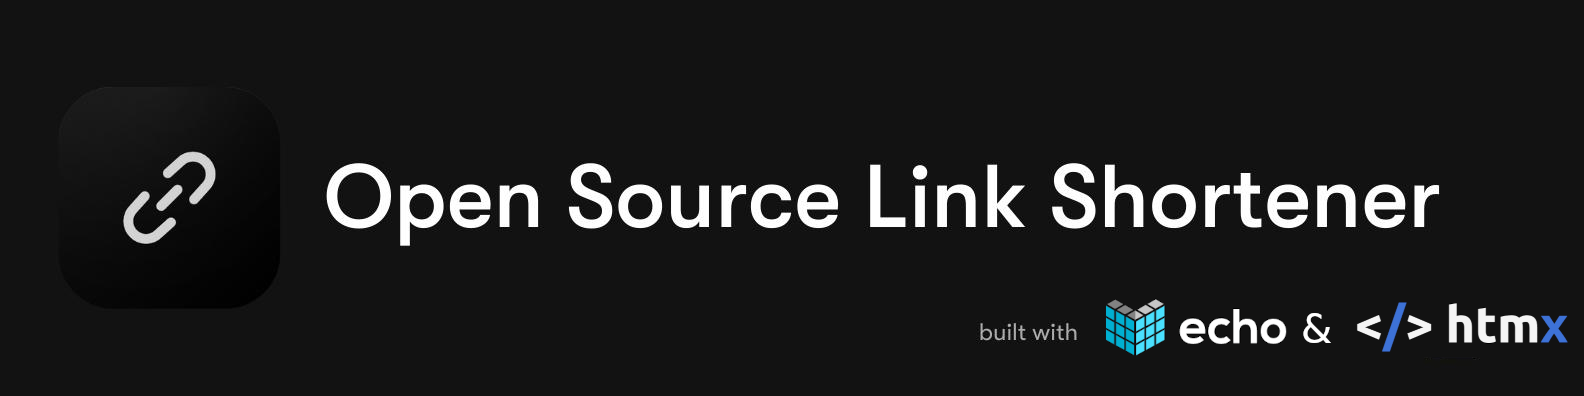
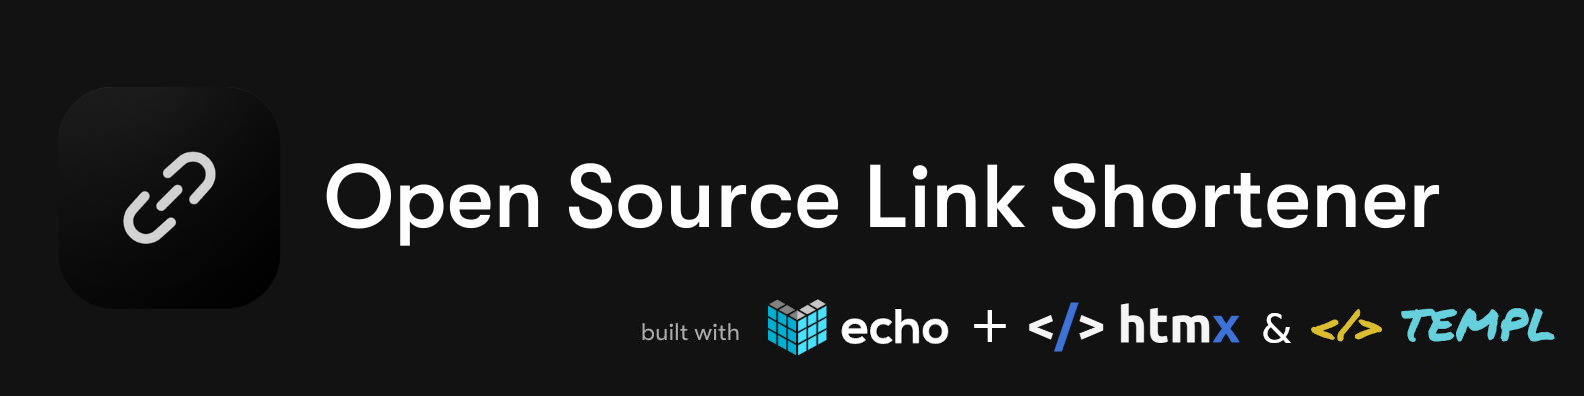
⚒ added a complete REDME file

Changed region(s): [[0.4021, 0.7576, 0.9899, 0.9091]]

diff --git a/README.md b/README.md
@@ -1,15 +1,145 @@
-<h1 style="text-align: center;">Shortify</h1>
+<div align="center">
+  
+<h1 align="center">Shortify</h1>
 
 <img src="doc/banner.png" width="100%">
 
-<br />
+<hr />
 
-A Full Stack application using Golang's Echo framework & </>htmx.
+<p style="margin-bottom: 8px;">
 
-<div style="text-align: center;">
-![](https://img.shields.io/github/license/emarifer/url-shortener-echo-templ-htmx.svg)
+A Full Stack Url Shortener App using Golang's Echo framework + </>HTMX & Templ.
+
+</p>
+  
+![GitHub License](https://img.shields.io/github/license/emarifer/url-shortener-echo-templ-htmx) ![Static Badge](https://img.shields.io/badge/Go-%3E=1.18-blue)
+
 </div>
+
+<hr />
 
 ## 🤔 What Stack have we used?
 
-In construction... ⚒
+In the implementation of this application we have used the following technologies:
+
+- ✅ **Bootstrapping**: [Go programming language (v1.21)](https://go.dev/)
+- ✅ **Backend Framework**: [Echo v4.11.4 ](https://echo.labstack.com/)
+- ✅ **Auth & Session middleware**: [Echo Contrib Session](https://github.com/labstack/echo-contrib/)
+- ✅ **Dependency Injection**: [Fx - dependency injection system for Go](https://uber-go.github.io/fx/)
+- ✅ **Database**: [PostgreSQL](https://www.postgresql.org/)
+- ✅ **Styling**: [TailwindCSS + DaisyUI](https://tailwindcss.com)
+- ✅ **Frontend interactivity**: [</>Htmx + _Hyperscript](https://htmx.org/)
+- ✅ **Templating Language**: [</>Templ - build HTML with Go](https://templ.guide/)
+- ✅ **Popup Boxes (Alerts)**: [Sweetalert2 - responsive & customizable replacement for JavaScript's popup boxes](https://sweetalert2.github.io/)
+  
+<br />
+
+>[!NOTE]
+>***The use of [</>htmx](https://htmx.org/) allows behavior similar to that of a SPA, without page reloads when switching from one route to another or when making requests (via AJAX) to the backend. Likewise, the [_hyperscript](https://hyperscript.org/) library allows you to add some dynamic features to the frontend in a very easy way.***
+  
+
+>[!IMPORTANT]
+>***In this application, instead of using the [html/template](https://pkg.go.dev/html/template) package (native Golang templates), we use the [a-h/templ](https://github.com/a-h/templ) library. This amazing library implements a templating language (very similar to JSX) that compiles to Go code. Templ will allow us to write code almost identical to Go (with expressions, control flow, if/else, for loops, etc.) and have autocompletion thanks to strong typing. This means that errors appear at compile time and any calls to these templates (which are compiled as Go functions) from the handlers side will always require the correct data, minimizing errors and thus increasing the security and speed of our coding.***
+
+---
+
+## 🖼 Screenshots:
+
+<div align="center">
+
+###### Home & Login Pages with success alert:
+
+<img src="doc/screenshot-01.png" width="35%" align="top">&nbsp;&nbsp;&nbsp;&nbsp;<img src="doc/screenshot-02.png" width="35%">
+
+###### Short link creator Page and Dashboard Page with alerts:
+
+<img src="doc/screenshot-03.png" width="35%" align="top">&nbsp;&nbsp;&nbsp;&nbsp;<img src="doc/screenshot-04.png" width="35%">
+
+###### Dashboard Page with alert and Short Link Update Modal:
+
+<img src="doc/screenshot-05.png" width="35%" align="top">&nbsp;&nbsp;&nbsp;&nbsp;<img src="doc/screenshot-06.png" width="35%">
+
+###### Centralized HTTP error handling:
+
+<img src="doc/screenshot-07.png" width="40%" align="top">
+
+</div>
+
+---
+
+## 📦 Project structure
+
+```
+- assets
+  |- css
+  |- img
+- database
+- encryption
+- internal
+  |- api
+    |- dto
+  |- entity
+  |- model
+  |- repository
+  |- service
+- postgresdb_init
+- settings
+- timezone_conversion
+- views
+  |- auth_views
+  |- components
+  |- errors_pages
+  |- layout
+  |- links_views
+```
+
+>[!NOTE]
+>***In this application, we have tried to apply a [Clean Architecture](https://blog.cleancoder.com/uncle-bob/2012/08/13/the-clean-architecture.html) pattern. The architecture follows a typical "onion model" where each layer doesn't know about the layer above it, and each layer is responsible for a specific thing. Although the application is extremely simple, we use this pattern to illustrate its use in more complex applications. Layering an application in this way can simplify code structure, since the responsibility of each type is clear. To ensure that each part of the application is initialized with its dependencies, each struct defines a constructor (the New function in this example). Related to the latter, we have used a dependency injector ([Fx](https://uber-go.github.io/fx/) from uber-go), which helps to remove the global state in the application and add new components and have them instantly accessible across the application.***
+
+>[!TIP]
+>***When applying this approach in a real-life application, as with most things, taking the layering approach to an extreme level can have a negative effect. Ask yourself if what you are doing actually helps make the code understandable or simply spreads the application logic across many files and makes the overall structure difficult to see.***
+
+
+## 👨🚀 Getting Started
+
+Besides the obvious prerequisite of having Go! on your machine, you must have Air installed for hot reloading when editing code.
+
+Since we use the PostgreSQL database from a Docker container, it is necessary to have the latter also installed and execute this command in the project folder:
+
+```
+$ docker compose up -d
+```
+
+These other commands will also be useful to manage the database from its container:
+
+```
+$ docker container start shortify-db # start container
+$ docker container stop shortify-db # stop container
+$ docker exec -it shortify-db psql -U admin -W shortify_db # (pass: admin) access the database
+```
+
+Start the app in development mode:
+
+```
+$ air # Ctrl + C to stop the application
+```
+
+Build for production:
+
+```
+$ go build -ldflags="-s -w" -o ./bin/main . # ./bin/main to run the application / Ctrl + C to stop the application
+```
+
+>[!TIP]
+>***In order to have autocompletion and syntax highlighting in VS Code for the Teml templating language, you will have to install the [templ-vscode](https://marketplace.visualstudio.com/items?itemName=a-h.templ) extension (for vim/nvim install this [plugin](https://github.com/joerdav/templ.vim)). To generate the Go code corresponding to these templates you will have to download this [executable binary](https://github.com/a-h/templ/releases/tag/v0.2.476) from Github and place it in the PATH of your system. The command:***
+
+```
+$ templ generate --watch
+```
+
+>[!TIP]
+>***This will allow us to monitor changes to the .templ files and compile them as we save them. Review the documentation on Templ [installation](https://templ.guide/quick-start/installation) and [support](https://templ.guide/commands-and-tools/ide-support/) for your IDE.***
+
+---
+
+### Happy coding 😀!!
